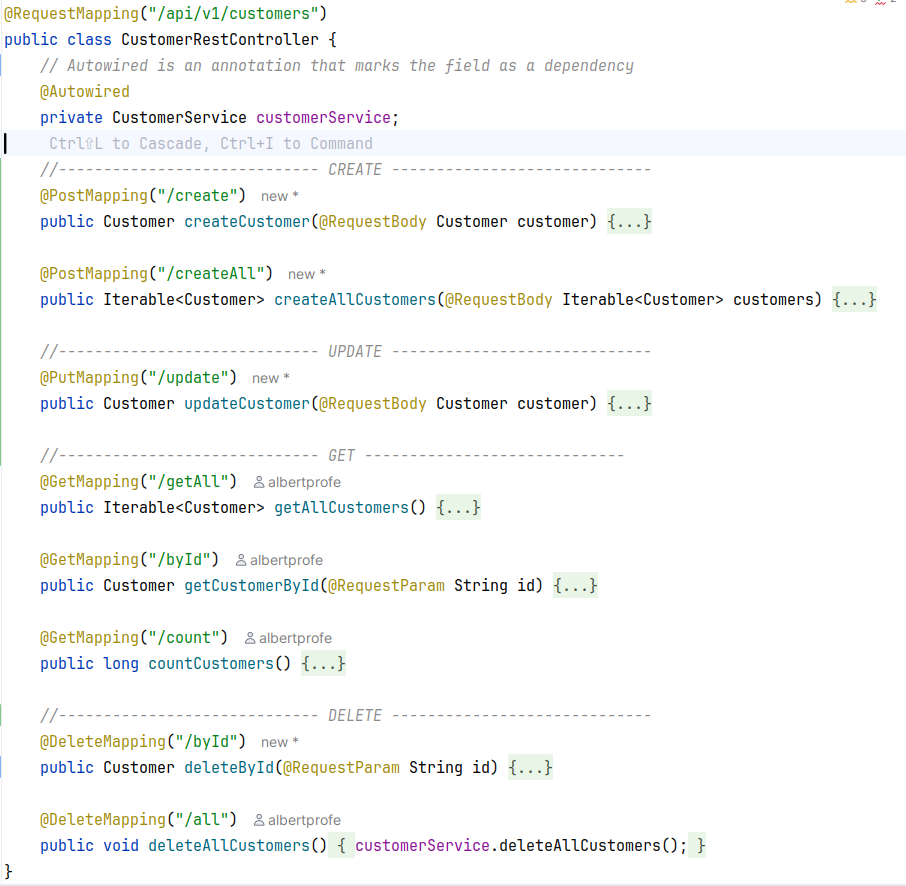
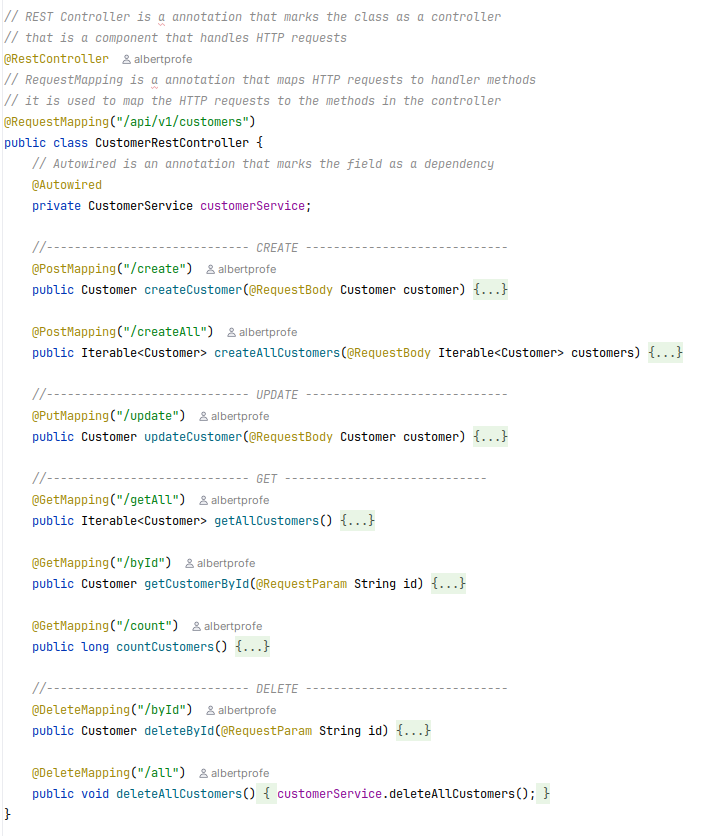
Built site for gh-pages

Changed region(s): [[0.0, 0.0, 0.9674, 0.9641], [0.8113, 0.4043, 0.9674, 0.4354], [0.0, 0.9641, 0.0312, 0.9952]]

diff --git a/ifcd0021-26/ifcd0021-backlog-sprint-26.html b/ifcd0021-26/ifcd0021-backlog-sprint-26.html
@@ -2068,8 +2068,8 @@ tr:hover {background-color:  #f4f4f4;}
 <td></td>
 <td>20</td>
 <td>20/10/26</td>
-<td>- <code>CompassMap</code> project: <br> (1) map the domain classes with <code>@Entity</code> <br> (2) choose identifiers and generated values: <code>@Id</code> <br> (3) define columns, constraints and validation: <code>defensive programming</code> <br> (4) model relationships and ownership with <code>@ManyToOne</code> / <code>@OneToMany</code> <br> (5) create <code>JpaRepository</code> interfaces <br> (6) persist synthetic data without duplicate seed records <br> (7) API Rest: <code>@RestController</code> <br> <br></td>
-<td>- <a href="https://github.com/AlbertProfe/compassMap/tree/xxxxx" class="external" target="_blank">compassMap project: xxxxx</a> <br> <br></td>
+<td>- <code>CompassMap</code> project: <br> (1) map the domain classes with <code>@Entity</code> <br> (2) choose identifiers and generated values: <code>@Id</code> <br> (3) define columns, constraints and validation: <code>defensive programming</code> <br> (4) model relationships and ownership with <code>@ManyToOne</code> / <code>@OneToMany</code> <br> (5) create <code>JpaRepository</code> interfaces <br> (6) persist synthetic data without duplicate seed records <br> (7) API Rest: <code>@RestController</code> <br> <br> - <code>CompassMap</code> data model draft <br> <br> - <code>Lombok</code>: Java library generates boilerplate code at build time via annotations</td>
+<td>- <a href="https://github.com/AlbertProfe/compassMap/blob/30b478625f38eef572cd3817386fe3bb1645988e/docs/compassMap_v1.md" class="external" target="_blank">compassMap masterDoc_v1: 30b4786</a> / <a href="https://github.com/AlbertProfe/compassMap/tree/30b478625f38eef572cd3817386fe3bb1645988e" class="external" target="_blank">Project</a><br> <br> - <a href="https://github.com/AlbertProfe/compassMap/blob/master/docs/appends/DataModel.md" class="external" target="_blank">DataModel: approaches</a><br> <a href="../images/ifcd0021-26/data_model-2.jpg" class="lightbox" data-gallery="quarto-lightbox-gallery-5"><img src="../images/ifcd0021-26/data_model-2.jpg" class="img-fluid quarto-figure quarto-figure-center" style="width:80.0%"></a></td>
 </tr>
 <tr class="odd">
 <td></td>
